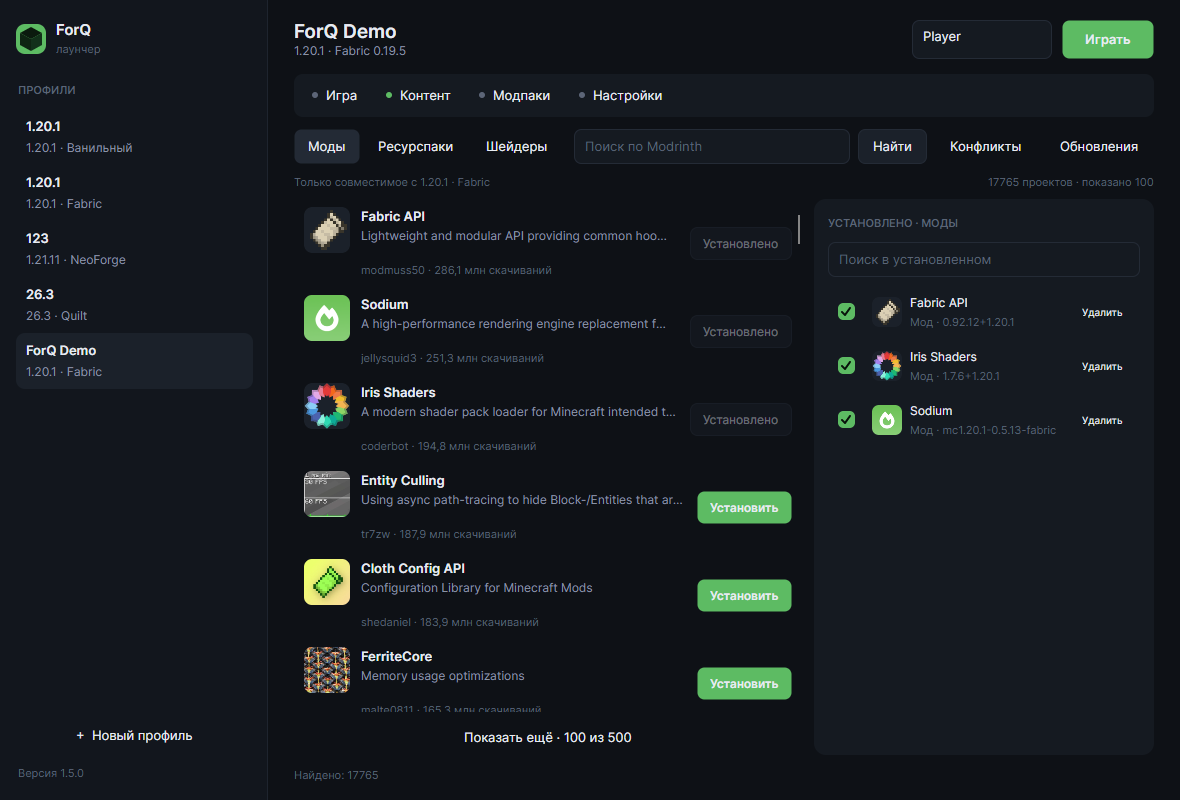
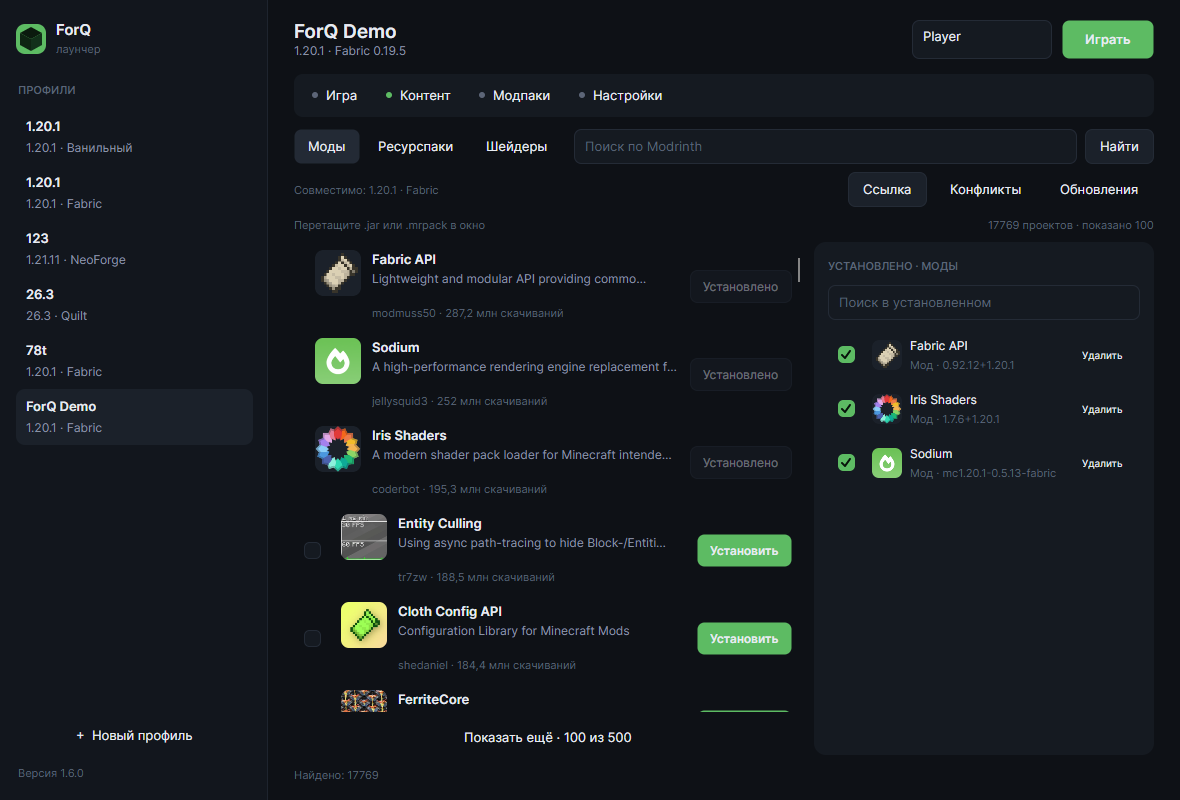
docs: оформил README и скриншоты для 1.6.0

diff --git a/README.md b/README.md
@@ -8,6 +8,7 @@
 
 ## Что нового
 
+- **1.6.0:** добавил разбор крашей, пакетную установку, защиту зависимостей и менеджер загрузок.
 - **1.5.0:** убрал настройку GitHub-токена — обновления проверяются без авторизации.
 - **1.4.0:** добавил поиск по установленному, проверку конфликтов и открытие карточки по клику.
 
@@ -18,9 +19,14 @@
 - Поддержка Fabric, Quilt и NeoForge.
 - Офлайн-вход по локальному нику, без аккаунта Microsoft.
 - Поиск и установка модов, ресурспаков, шейдеров и модпаков `.mrpack` с Modrinth.
+- Пакетная установка нескольких модов и импорт `.jar`, `.zip` и `.mrpack` перетаскиванием.
+- Установка проектов и файлов по прямой ссылке.
 - Отметки «Установлено», удаление и отключение контента.
+- Предупреждение о зависимых модах перед удалением.
+- Разбор `latest.log` и `crash-reports`: лаунчер находит вероятный мод и объясняет причину падения.
 - Проверка обновлений установленных проектов.
 - Проверка дубликатов и несовместимостей модов.
+- Менеджер загрузок с паузой, продолжением, лимитом скорости, ETA и текущим файлом.
 - Автоматическая загрузка Java, библиотек и ресурсов игры.
 - Настройки памяти, разрешения экрана и количества потоков загрузки.
 - Автообновление лаунчера без GitHub-токена.
@@ -30,6 +36,14 @@
 | Карточка проекта | Проверка конфликтов |
 |:---:|:---:|
 | [<img src="docs/screenshots/details.png" width="360" alt="Карточка проекта Sodium">](docs/screenshots/details.png) | [<img src="docs/screenshots/conflicts.png" width="460" alt="Проверка конфликтов модов">](docs/screenshots/conflicts.png) |
+
+| Разбор краша | Защита зависимостей |
+|:---:|:---:|
+| [<img src="docs/screenshots/crash.png" width="360" alt="Разбор краша с поиском виновного мода">](docs/screenshots/crash.png) | [<img src="docs/screenshots/dependents.png" width="360" alt="Предупреждение о зависимых модах при удалении">](docs/screenshots/dependents.png) |
+
+| Пакетная установка | Менеджер загрузок |
+|:---:|:---:|
+| [<img src="docs/screenshots/batch.png" width="460" alt="Пакетная установка выбранных модов">](docs/screenshots/batch.png) | [<img src="docs/screenshots/downloads.png" width="460" alt="Менеджер загрузок с паузой, скоростью и ETA">](docs/screenshots/downloads.png) |
 
 ## Быстрый старт
 
